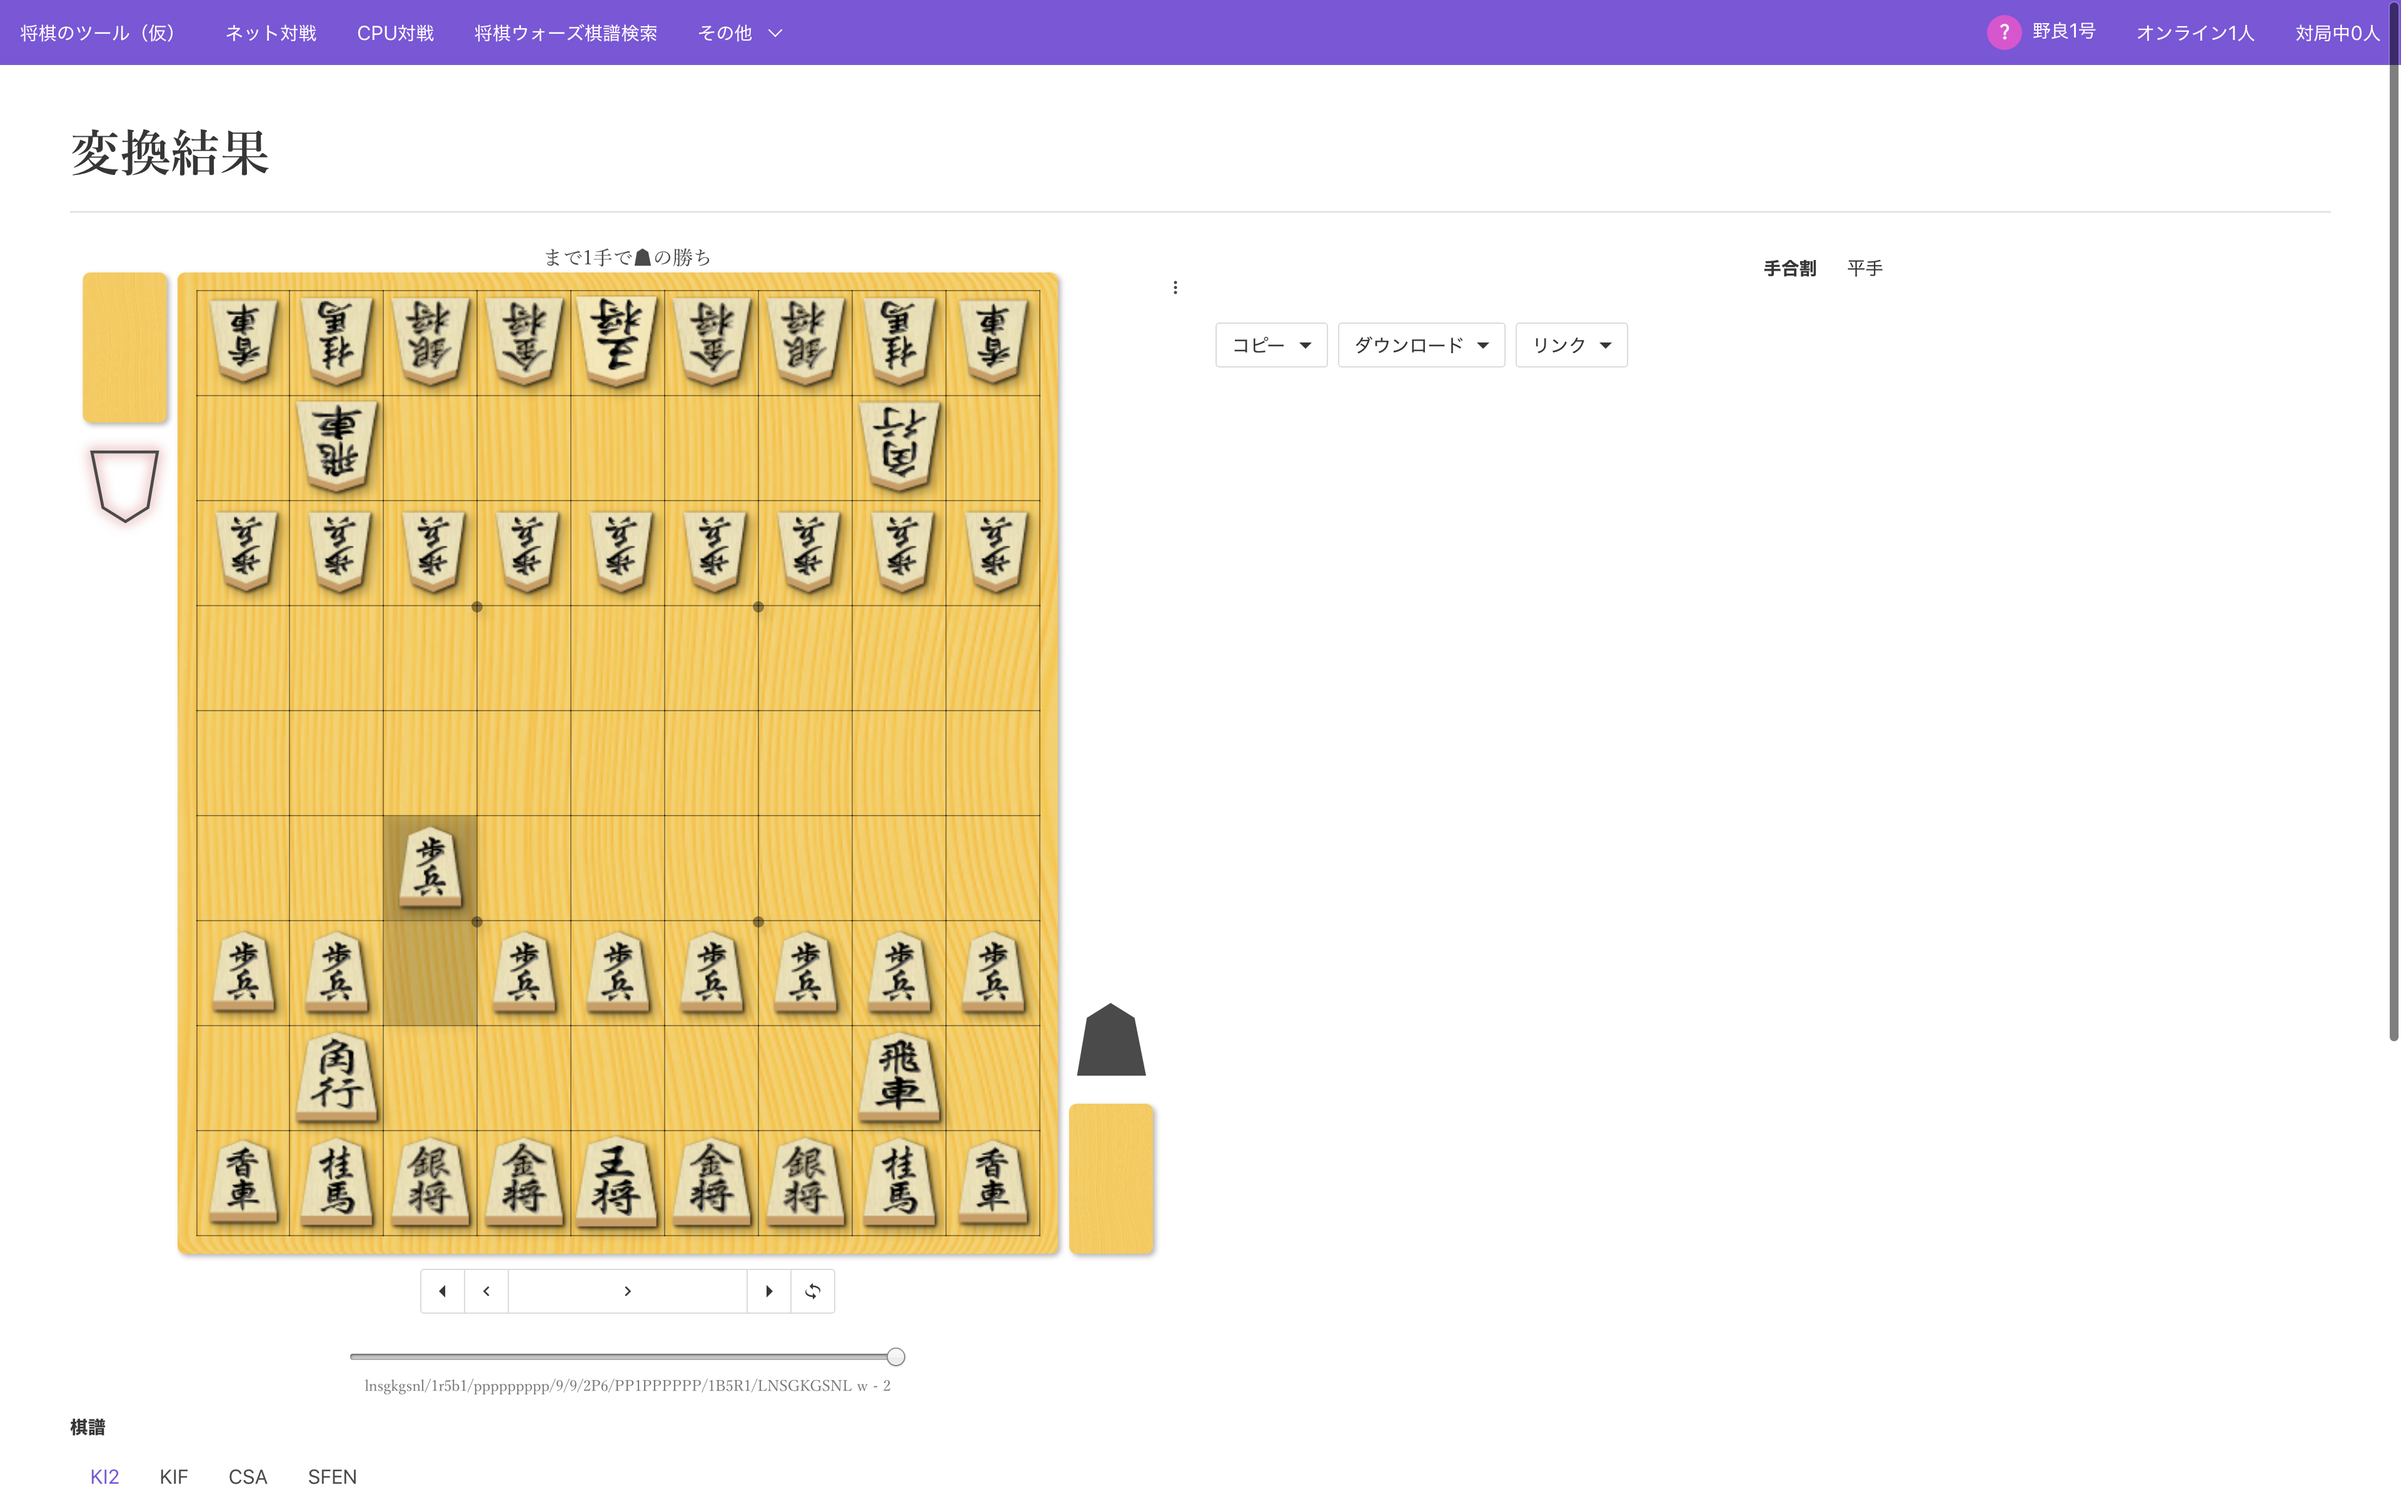
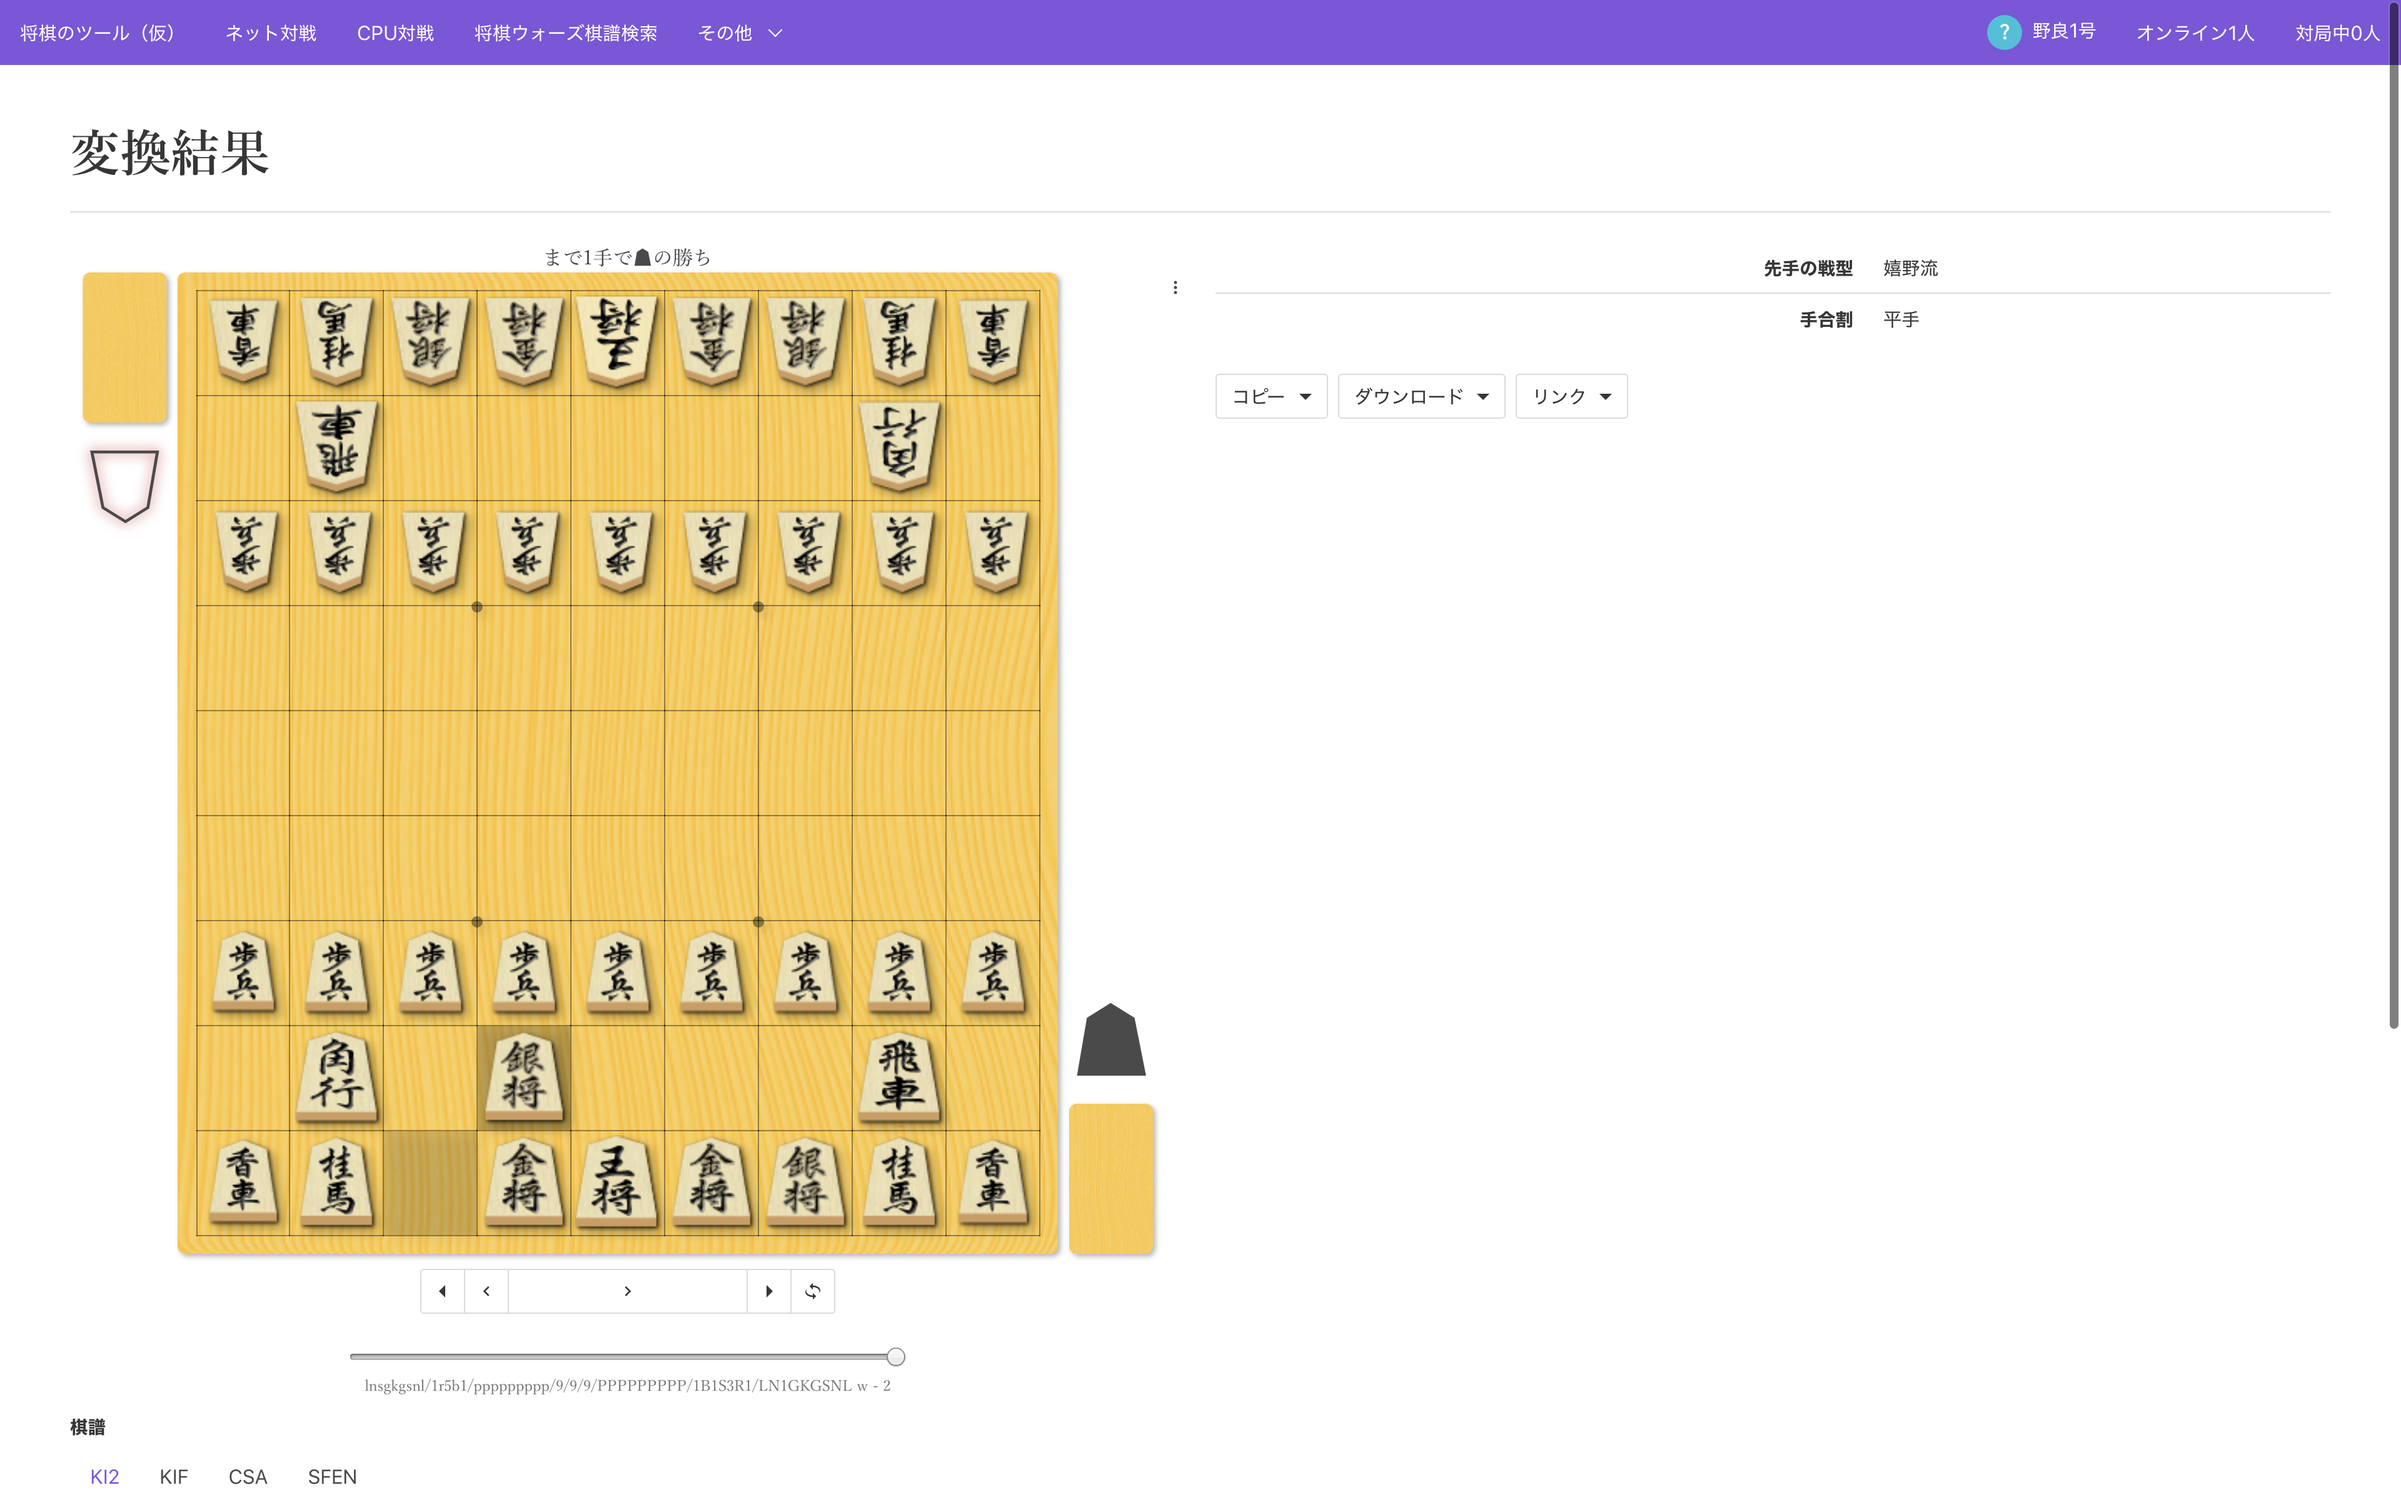
[test] ajax が発動する前にスクリーンショットを撮っているのを改善

diff --git a/spec/system/free_battle_records_spec.rb b/spec/system/free_battle_records_spec.rb
@@ -17,12 +17,13 @@ RSpec.describe "FreeBattleRecords", type: :system do
     expect(page).to have_field "free_battle_record[kifu_url]"
     expect(page).to have_field "free_battle_record[kifu_file]"
 
-    fill_in "free_battle_record[kifu_body]", with: "76歩"
+    fill_in "free_battle_record[kifu_body]", with: "68銀"
+    sleep(3)
     doc_image("棋譜変換_入力")
     click_button "変換"
 
     expect(page).to have_content "結果"
-    expect(page).to have_content "▲７六歩"
+    expect(page).to have_content "▲６八銀"
 
     doc_image("棋譜変換_結果")
   end
